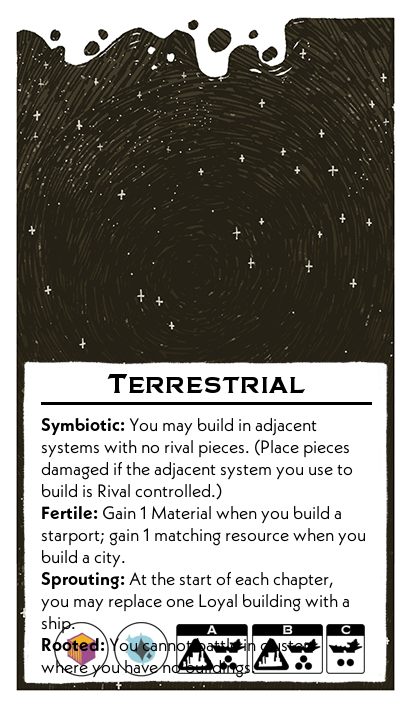
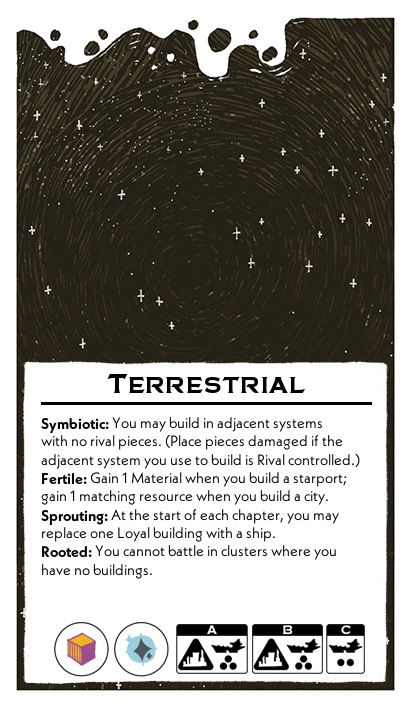
reduce font size terra

Changed region(s): [[0.0876, 0.5904, 0.8759, 0.9633], [0.6715, 0.9011, 0.7299, 0.9322]]

diff --git a/scripts/leadersFormatted.py b/scripts/leadersFormatted.py
@@ -169,7 +169,7 @@ leaders = [
             "B": {"ships": 3, "building": "city"},
             "C": {"ships": 2, "building": "None"}
         },
-        "body_font_size": 18
+        "body_font_size": 15
     },
     {
         "name": "Manipulator",
@@ -290,7 +290,7 @@ leaders = [
         "name": "Magician",
         "abilities": (
             "**Illusive:** After you tax a city, you may place it in any building slot you control.\n"
-            "**Unmasked:** When you tax a rival city, you only gain a captive or resource not both."
+            "**Unmasked:** When you tax a rival city, you only gain a captive or resource, not both."
         ),
         "resources": ["Psionic", "Material"],
         "setup": {
